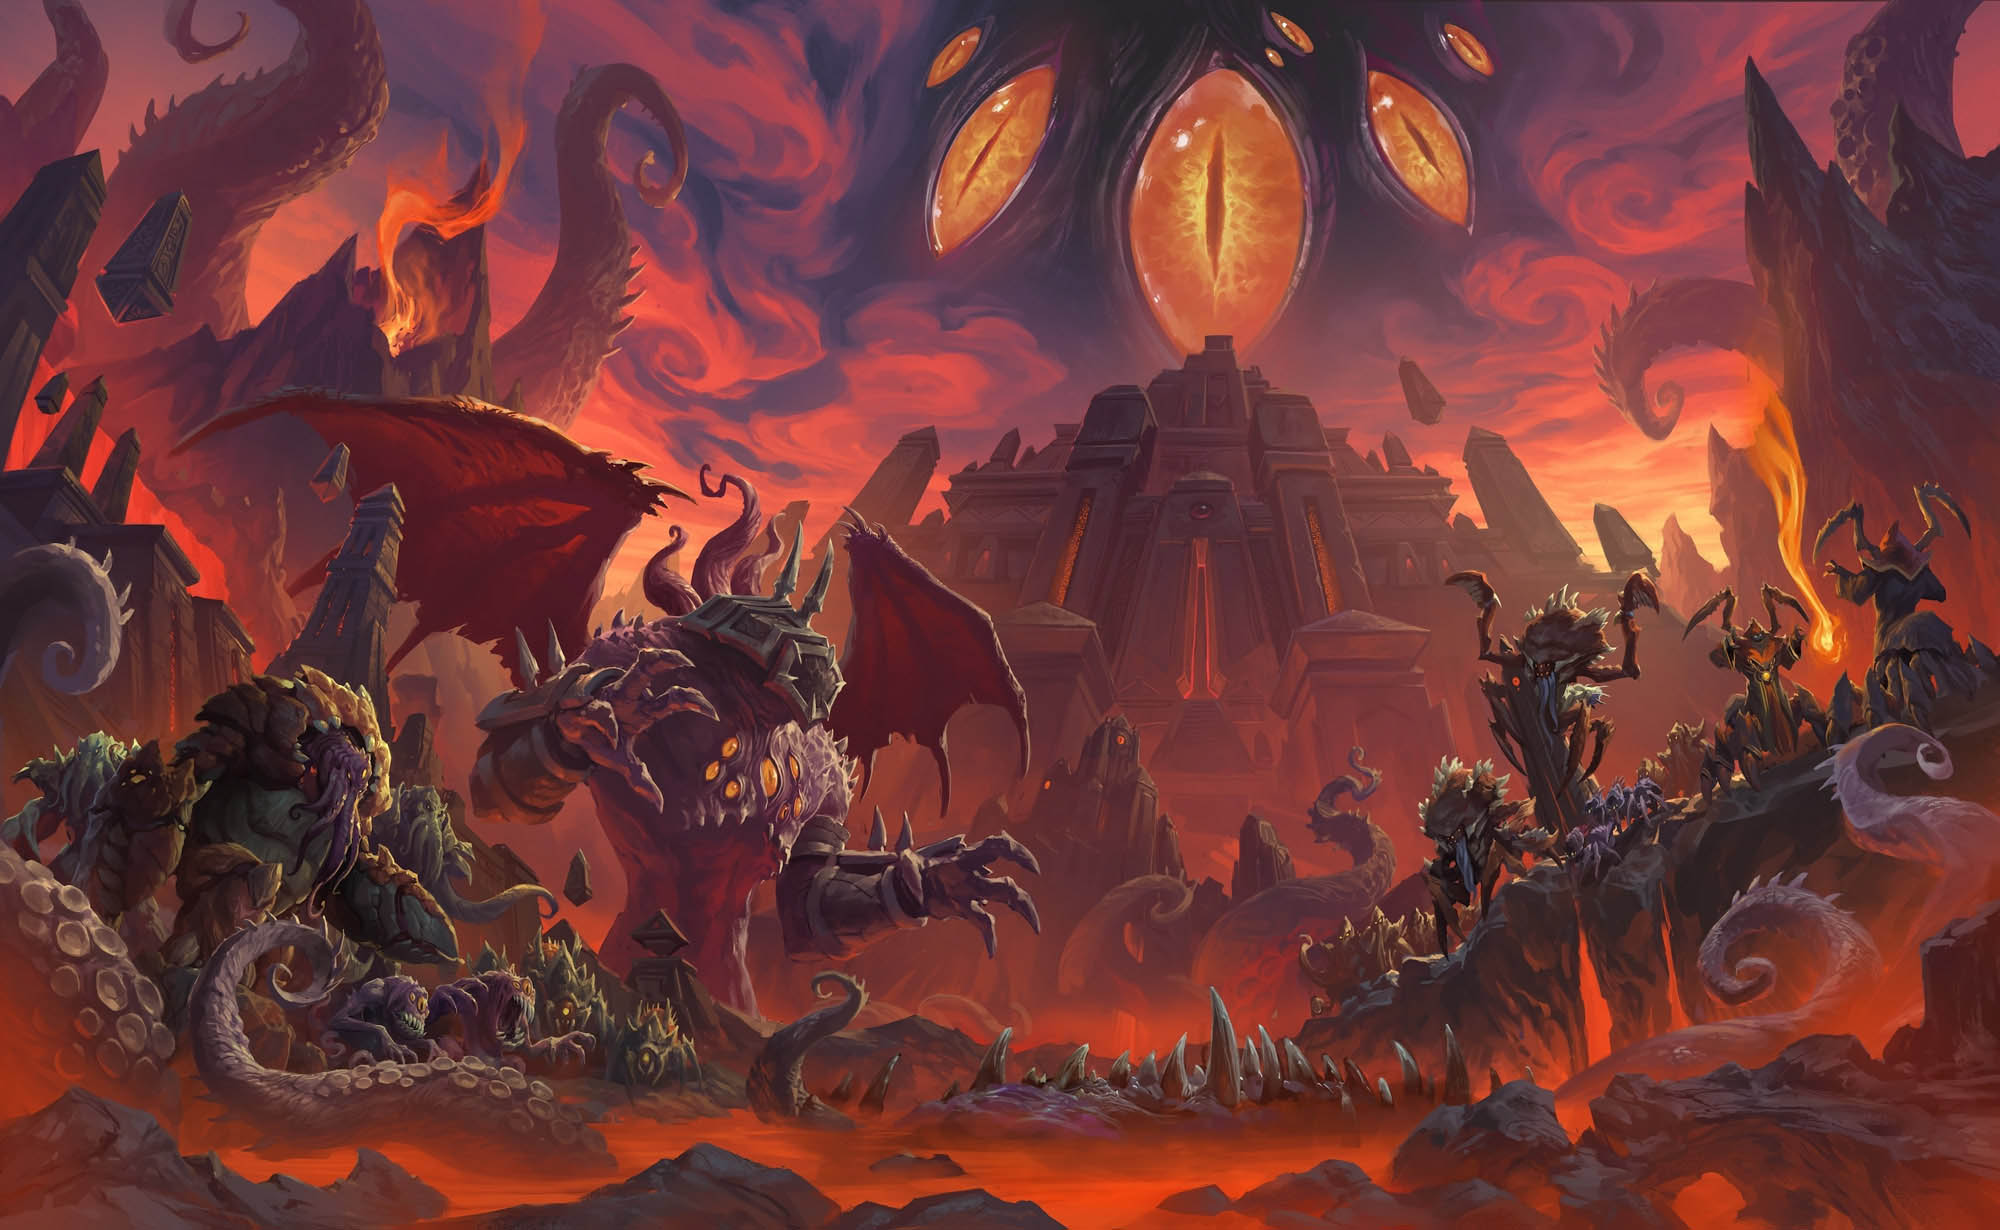
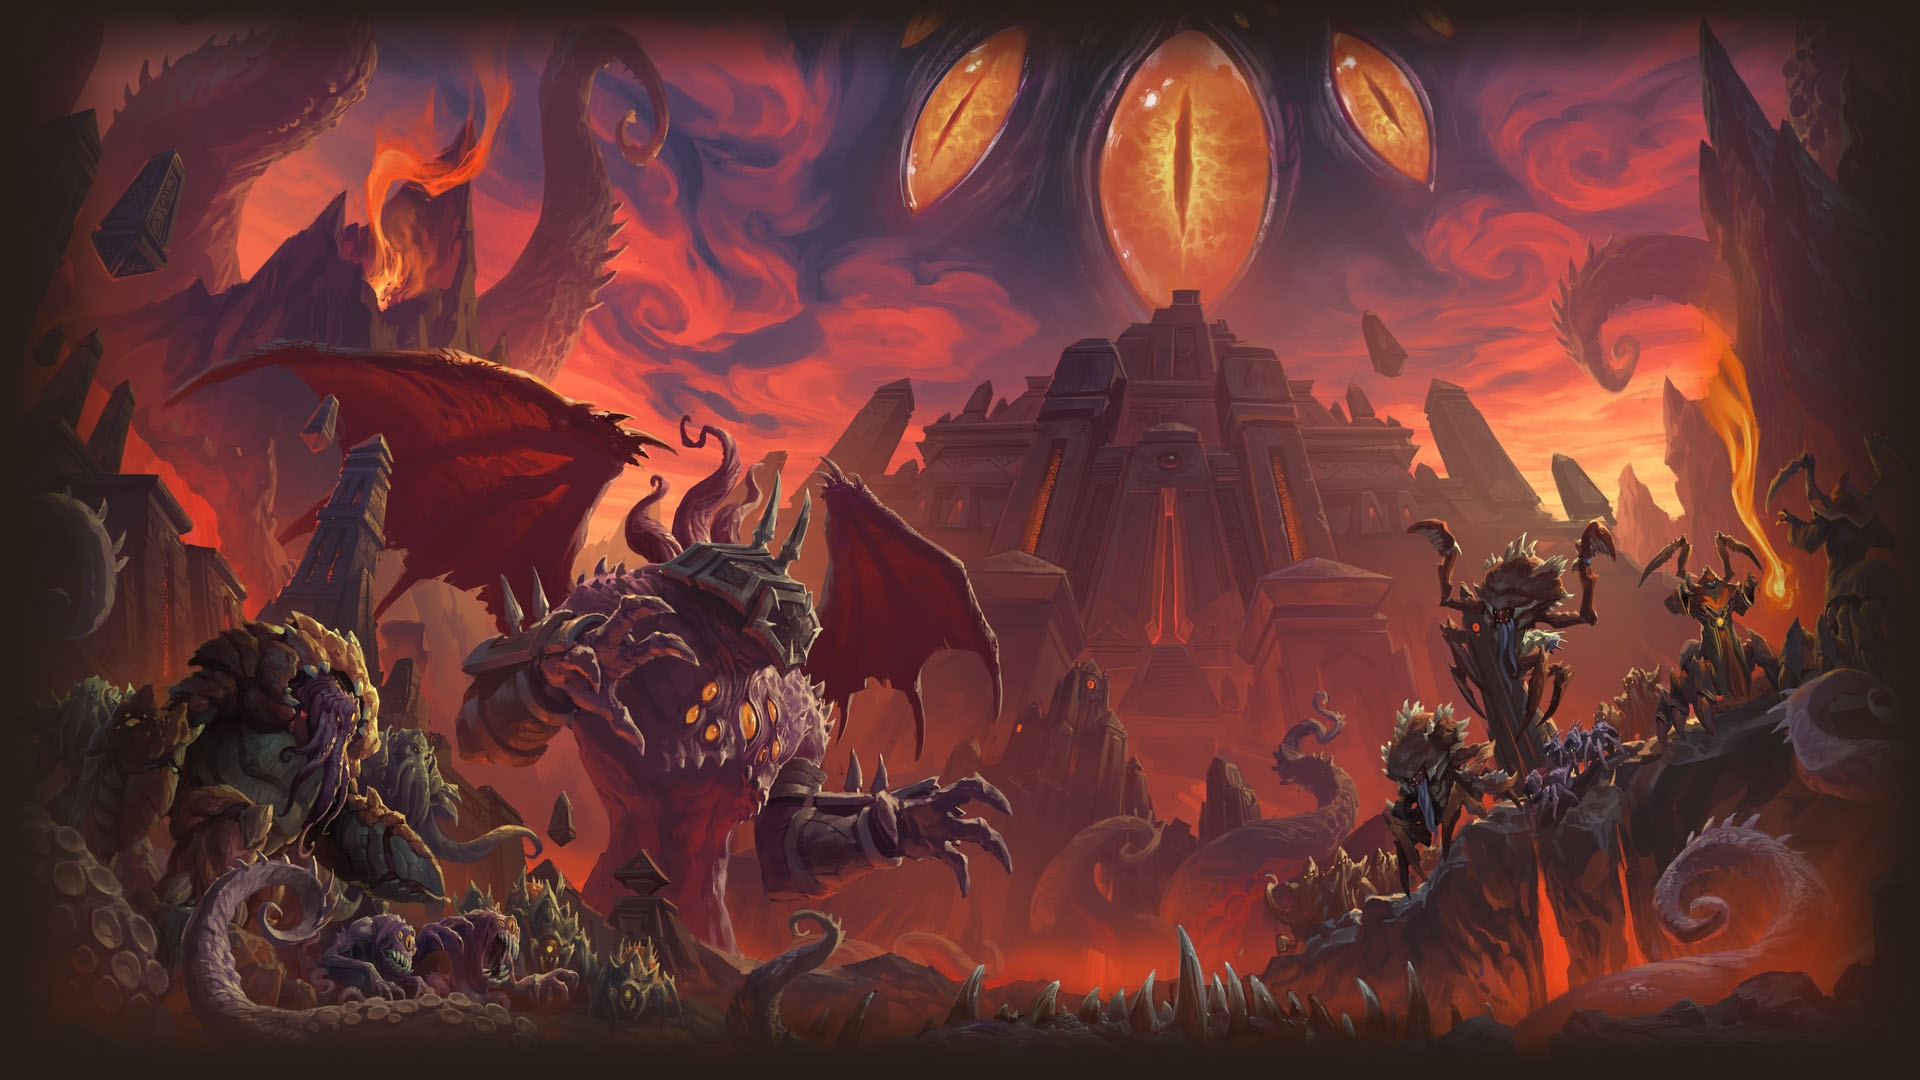
feat: change background image

diff --git a/client/src/components/GameBoard/GameBoard.services.ts b/client/src/components/GameBoard/GameBoard.services.ts
@@ -19,7 +19,7 @@ function createConfig(
   posY: number,
   width: number,
   height: number,
-  color: number
+  color: number,
 ): ConfigOfRectangle {
   return {
     positionX: posX,
@@ -49,7 +49,7 @@ export function create(game: Phaser.Scene): void {
     enemyCardsConfig.positionY,
     enemyCardsConfig.width,
     enemyCardsConfig.height,
-    enemyCardsConfig.color
+    enemyCardsConfig.color,
   );
 
   game.add.rectangle(
@@ -57,7 +57,7 @@ export function create(game: Phaser.Scene): void {
     playerCardsConfig.positionY,
     playerCardsConfig.width,
     playerCardsConfig.height,
-    playerCardsConfig.color
+    playerCardsConfig.color,
   );
 
   game.add.rectangle(table.positionX, table.positionY, table.width, table.height, table.color);
@@ -67,7 +67,7 @@ export function create(game: Phaser.Scene): void {
     playerAvatar.positionY,
     playerAvatar.width,
     playerAvatar.height,
-    playerAvatar.color
+    playerAvatar.color,
   );
 
   game.add.rectangle(
@@ -75,7 +75,7 @@ export function create(game: Phaser.Scene): void {
     enemyAvatar.positionY,
     enemyAvatar.width,
     enemyAvatar.height,
-    enemyAvatar.color
+    enemyAvatar.color,
   );
 
   game.add.rectangle(timer.positionX, timer.positionY, timer.width, timer.height, timer.color);
@@ -85,7 +85,7 @@ export function create(game: Phaser.Scene): void {
     endTurnButton.positionY,
     endTurnButton.width,
     endTurnButton.height,
-    endTurnButton.color
+    endTurnButton.color,
   );
 
   game.add.rectangle(
@@ -93,7 +93,7 @@ export function create(game: Phaser.Scene): void {
     playerMana.positionY,
     playerMana.width,
     playerMana.height,
-    playerMana.color
+    playerMana.color,
   );
 
   game.add.rectangle(
@@ -101,7 +101,7 @@ export function create(game: Phaser.Scene): void {
     enemyMana.positionY,
     enemyMana.width,
     enemyMana.height,
-    enemyMana.color
+    enemyMana.color,
   );
 
   game.add.rectangle(
@@ -109,7 +109,7 @@ export function create(game: Phaser.Scene): void {
     playerDeck.positionY,
     playerDeck.width,
     playerDeck.height,
-    playerDeck.color
+    playerDeck.color,
   );
 
   game.add.rectangle(
@@ -117,7 +117,7 @@ export function create(game: Phaser.Scene): void {
     enemyDeck.positionY,
     enemyDeck.width,
     enemyDeck.height,
-    enemyDeck.color
+    enemyDeck.color,
   );
 
   const gameWidth = game.game.config.width;

diff --git a/client/src/styles/styles.scss b/client/src/styles/styles.scss
@@ -25,6 +25,7 @@ html {
   padding: 0;
   margin: 0;
   font-family: 'Roboto', sans-serif;
+  background-color: #261c17;
 }
 
 .nav-bar {
